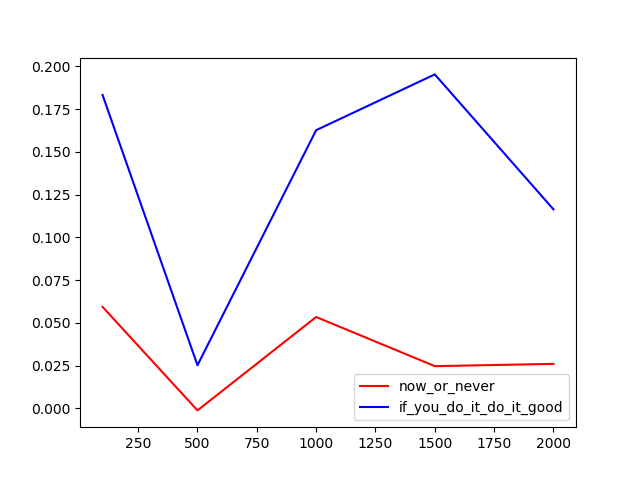
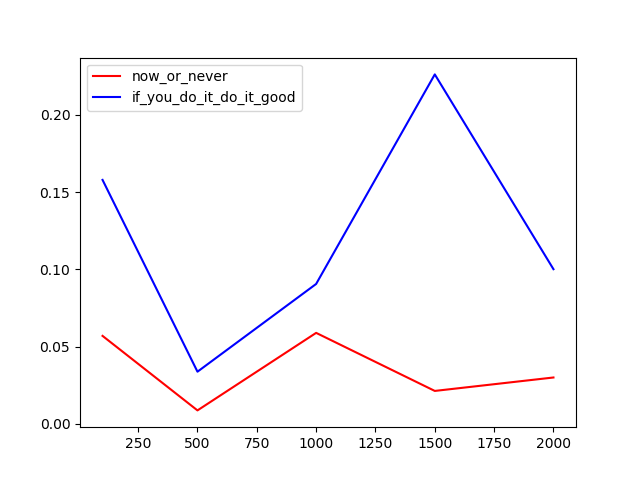
bugfix

diff --git a/thesis_code/generating_events_from_known_model.py b/thesis_code/generating_events_from_known_model.py
@@ -1,6 +1,7 @@
 from typing import Sequence, Tuple, Callable
 import numpy as np
 import matplotlib.pyplot as plt
+plt.close()
 import copy
 import os
 import pandas as pd
@@ -19,7 +20,6 @@ class order_types(Enum):
     limit_order = 2
 
 
-
 def compute_roi(timeseries: Sequence[float], events: Sequence[Tuple[str, int]], transaction_cost, order_type = 'market_order') -> float:
     """
     Given a timeseries and a list of events, compute the return on investment
@@ -36,12 +36,16 @@ def compute_roi(timeseries: Sequence[float], events: Sequence[Tuple[str, int]], 
                 amount -= (timeseries[time_step] * (1+transaction_cost))
             # limit orders are price specific and are free
             elif order_type == 'limit_order':
-                amount -= [p for p in timeseries if p<=price][0] 
+                options =  [p for p in timeseries if p<=price] 
+                if options:
+                    amount -= options[0]
         if event_type=='sell':
             if order_type == 'market_order':
                 amount += (timeseries[time_step] * (1-transaction_cost))
             elif order_type == 'limit_order':
-                amount += [p for p in timeseries if p>=price][0]
+                options = [p for p in timeseries if p>=price]
+                if options:
+                    amount += options[0]
     return amount
 
 
@@ -125,6 +129,7 @@ def evaluate_model(prob_model: ProbModel, event_function: Callable, strategy: st
         target_roi = 0
 
 
+
     if make_fig:
         plt.figure()
         plt.plot(context, c='r')
@@ -138,6 +143,7 @@ def evaluate_model(prob_model: ProbModel, event_function: Callable, strategy: st
             plt.axvline(x=event[-1]+n_run_steps, label='true_'+event[0], c=color)
         plt.legend()
         plt.savefig('experiment_'+strategy+'_'+str(prob_model.seed)+'.png')
+        plt.show()
 
 
     return roi, target_roi
@@ -181,7 +187,7 @@ def strategy_vs_sample_size():
     transaction_cost = 0.05
     input_seq_len = 100
     output_seq_len = 50
-    trials = 100
+    trials = 500
     
     df = pd.DataFrame([])
     df['simulations_per_trial'] = [100, 500, 1000, 1500, 2000]
@@ -204,6 +210,39 @@ def strategy_vs_sample_size():
     plt.savefig('strategy_vs_sample_size/images/simulations_per_trial.png')
     plt.show()
 
+
+def order_type_vs_strategy():
+
+    make_dirs('order_type_vs_strategy')
+
+    x_noise = 0.1
+    v_noise = 0.08
+    m_noise = 0.05
+    reduce_risk = True
+    input_seq_len = 100
+    output_seq_len = 50
+    trials = 500
+    simulations_per_trial = 500
+    transaction_cost = 0.02
+    
+    df = pd.DataFrame([])
+
+    colors = ['r', 'b', 'g', 'm']
+    i = 0
+    plt.figure('order_type_vs_strategy')
+    for strategy in [1,2]:
+        print('strategy: ', str(strategies(strategy).name))
+        for order_type in [1,2]:
+            print('order_type: ', str(order_types(order_type).name))
+            estimates, targets = run_experiments(trials, simulations_per_trial, strategy, order_type, transaction_cost, input_seq_len, output_seq_len,
+                            x_noise, v_noise, m_noise, reduce_risk)            
+            error = np.mean(np.subtract(targets,estimates))
+            plt.bar(i, error, label = str(strategies(strategy).name)+'/'+str(order_types(order_type).name) )
+    plt.legend()
+    plt.savefig('order_type_vs_strategy/images/order_type_vs_strategy.png')
+    plt.show()
+
+
 def strategy_vs_transaction_cost():
 
     make_dirs('strategy_vs_transaction_cost')
@@ -215,7 +254,7 @@ def strategy_vs_transaction_cost():
     order_type = 1
     input_seq_len = 100
     output_seq_len = 50
-    trials = 100
+    trials = 500
     simulations_per_trial = 500
     
     df = pd.DataFrame([])
@@ -255,7 +294,7 @@ def noise_vs_risk():
     strategy = 1
     
     df = pd.DataFrame([])
-    df['extra_noise'] = np.arange(0,20, 2)/10.0
+    df['extra_noise'] = np.arange(0,20,2)/10.0
     
     colors = ['r', 'b']
     i = 0
@@ -279,11 +318,34 @@ def noise_vs_risk():
     plt.savefig('noise_vs_risk/images/noise.png')
     plt.show()
 
+def show_an_example():
+    x_noise = 0.1
+    v_noise = 0.08
+    m_noise = 0.05
+    reduce_risk = False
+    order_type = 1
+    transaction_cost = 0.05
+    input_seq_len = 100
+    output_seq_len = 50
+    strategy = 1
 
+    evaluate_model(
+        prob_model=ProbModel(10, measurement_noise=m_noise, x_noise = x_noise , v_noise = v_noise),
+        event_function=make_buy_sell_events,
+        strategy = str(strategies(strategy).name),
+        n_run_steps = input_seq_len, 
+        n_simulations = 50,
+        n_eval_steps = output_seq_len, 
+        transaction_cost = transaction_cost,
+        reduce_risk = reduce_risk,
+        order_type = str(order_types(order_type).name),
+        make_fig = True
+        )
 
 if __name__ == '__main__':
 
     noise_vs_risk()
+
 
    
 

diff --git a/thesis_code/strategies.py b/thesis_code/strategies.py
@@ -14,18 +14,24 @@ def now_or_never(futures, reduce_risk=False, format='price', transaction_cost=0.
     best_deal  = np.mean([np.max(future[1:])-future[0] for future in futures])
     selling_price = best_deal+current_price
     if best_deal > (transaction_cost*current_price + transaction_cost*selling_price):
+        # one sample need special treatment
+        if np.shape(futures)[0] == 1:
+            return [('buy', current_price, 0), 
+                ('sell', selling_price, np.argmax(futures[0][1:]))]
         # find best selling moment = where most futures are within this region
         T = len(futures[0])
         time_slices = [[future[t] for future in futures] for t in range(1,T)]
-        F = [KDE(time_slice, [selling_price], 0.1) for time_slice in time_slices]
+        F = [ECDF(time_slice, [selling_price]) for time_slice in time_slices]
+        F = F/np.sum(F)
+        score = [1. - f for f in F]
         # penalize for fat tail if you like
         if reduce_risk:
-            beta = np.max(F)
-            penalty = [1.0/expected_shortfall(time_slice) for time_slice in time_slices]
-            F = [F[i] - penalty[i] for i in range(len(penalty))]
+            beta = np.min(score)/100.
+            penalty = [beta/expected_shortfall(time_slice) for time_slice in time_slices]
+            score = [score[i] - penalty[i] for i in range(len(penalty))]
 
-        F = np.asmatrix(F)
-        selling_moment = np.argmax(F[1:]) + 1
+        score = np.asmatrix(score)
+        selling_moment = np.argmax(score[1:]) + 1
 
         return [('buy', current_price, 0), 
                 ('sell', selling_price, selling_moment)]
@@ -59,18 +65,25 @@ def if_you_do_it_do_it_good(futures, reduce_risk=False, format='price', transact
     buy_before = np.max(buy_moments)
     # take into account the transaction costs
     if best_deal > (transaction_cost*buying_price + transaction_cost*selling_price):
+        # one sample need special treatment
+        if np.shape(futures)[0] == 1:
+            return [('buy', buy_before, buying_price), 
+                ('sell', selling_price, np.argmax(futures[0][buy_before:]))]
         # find best selling moment = were most futures are within this region
         time_slices = [[future[t] for future in futures] for t in range(1,T)]
-        F_buy = [KDE(time_slice, [buying_price], 0.1) for time_slice in time_slices]
+        F_buy = [ECDF(time_slice, [buying_price]) for time_slice in time_slices]
+        score_buy = F_buy/np.sum(F_buy)
         buying_moment = np.argmin(F_buy[:buy_before+1])
-        F_sell = [KDE(time_slice, [selling_price], 0.1) for time_slice in time_slices]
+        F_sell = [ECDF(time_slice, [selling_price]) for time_slice in time_slices]
+        F_sell = F_sell/np.sum(F_sell)
+        score_sell = [1. - f for f in F_sell]
         # penalize for fat tail if you like
         if reduce_risk:
-            beta = np.mean(F_sell)
-            penalty = [1.0/expected_shortfall(time_slice) for time_slice in time_slices]
-            F_sell = [F_sell[i] - penalty[i] for i in range(len(penalty))]
-        F_sell = np.asmatrix(F_sell)
-        selling_moment = buying_moment + (np.argmax(F_sell[buying_moment+1:])+1)
+            beta = np.min(score_sell)/100.
+            penalty = [beta/expected_shortfall(time_slice) for time_slice in time_slices]
+            score_sell = [score_sell[i] - penalty[i] for i in range(len(penalty))]
+        score_sell = np.asmatrix(score_sell)
+        selling_moment = buying_moment + (np.argmax(score_sell[buying_moment+1:])+1)
         return [('buy', buying_price, buying_moment), 
                 ('sell', selling_price, selling_moment)]
     else:

diff --git a/thesis_code/utils.py b/thesis_code/utils.py
@@ -5,13 +5,13 @@ import os
 
 
 def ECDF(data, samples):
-    ecdf = [np.sum(np.where( sample <= data, 1, 0)) for sample in samples]
-    return ecdf/len(data)
+    ecdf = [np.sum(np.where( sample >= data, 1, 0)) for sample in samples]
+    return ecdf
 
     
 def KDE(data, samples, bandwidth):
     cdf = np.sum([norm(0).cdf((data-xi)/bandwidth) for xi in samples], axis=1)
-    return cdf/len(data)
+    return cdf
 
 
 def get_cdf(data, samples, method='ecdf', bandwidth='1.0'):
@@ -25,8 +25,11 @@ def get_cdf(data, samples, method='ecdf', bandwidth='1.0'):
 
 def value_at_risk(samples, alpha=5):
     N = len(samples)
+    
+    
     samples.sort()
-    var = np.percentile(samples, 100-alpha)
+    var = np.percentile(samples, alpha)
+    
     return var
 
 def expected_shortfall(samples, alpha=5):
